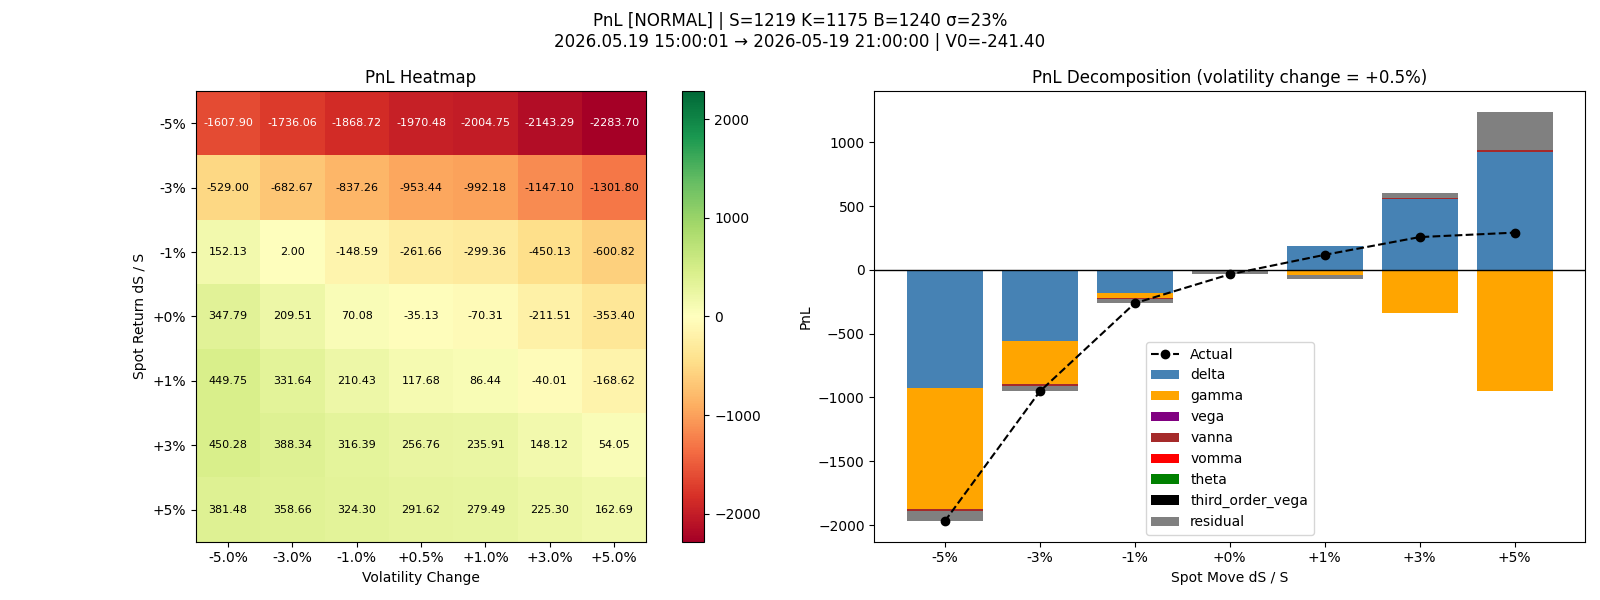
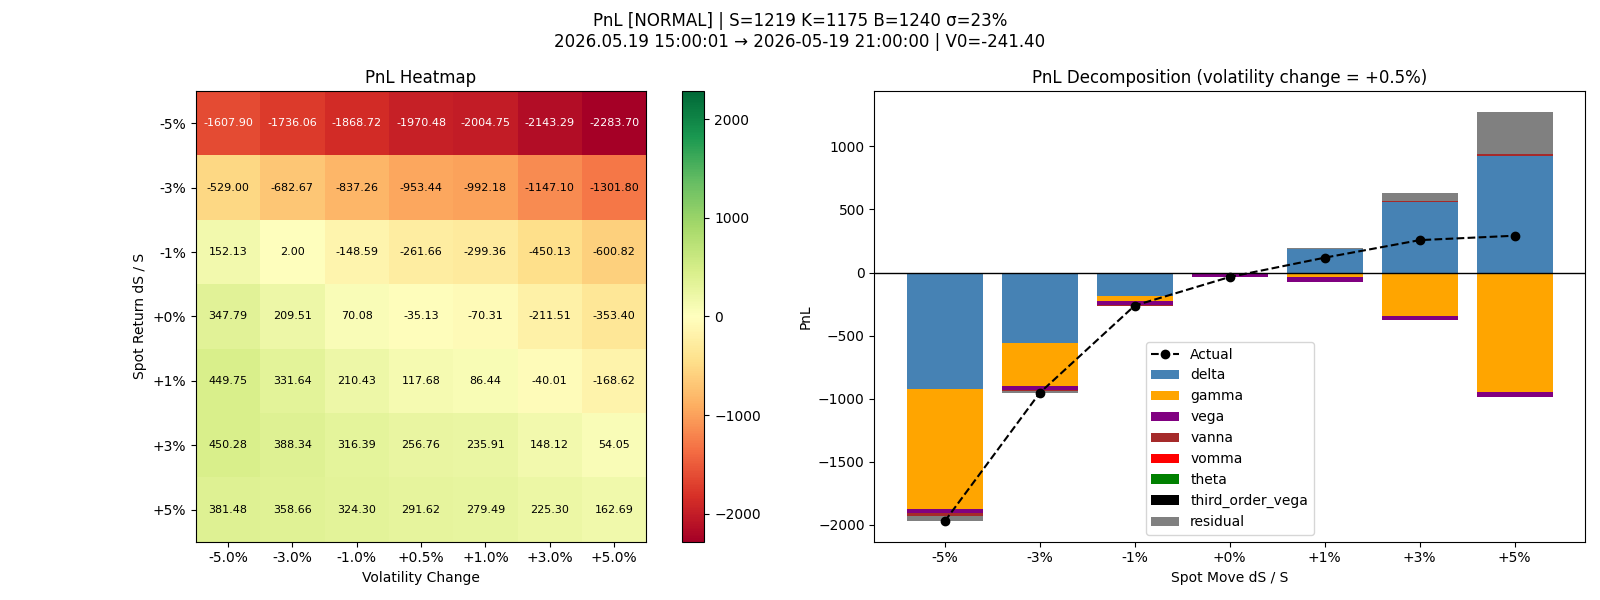
PnL attribution doc added, and bug repaired
Vega unit mismatch repaired and add doc of PnL analysis.

diff --git a/analysis/PnL_Attribution.py b/analysis/PnL_Attribution.py
@@ -143,7 +143,7 @@ def compute_pnl(option_type, base_params:dict, next_pnl_dt:str, dS_fracs:tuple=(
         actual = V1(S0 + dS, sigma0 + sigma_change) - V0
         delta_pnl = greeks0['delta'] * dS
         gamma_pnl = 0.5 * greeks0['gamma'] * dS**2
-        vega_pnl = greeks0['vega'] * sigma_change
+        vega_pnl = greeks0['vega'] * sigma_change * 100
         vanna_pnl = vanna0 * dS * sigma_change
         vomma_pnl = 0.5 * vomma0 * sigma_change**2
         theta_pnl = theta0 * trade_sec
@@ -293,10 +293,10 @@ if __name__ == '__main__':
         seed=42,
     )
 
-    res = compute_pnl(option_type= "knockout",
+    res = compute_pnl(option_type= "normal",
         base_params=params, next_pnl_dt="2026.05.19 21:00:00",
         dS_fracs=(-0.05, -0.03, -0.01, 0.0, 0.01, 0.03, 0.05),
         dsigma=(-0.05, -0.03, -0.01, 0.005, 0.01, 0.03, 0.05),
      )
 
-    plot_pnl(res, params, "knockout")
+    plot_pnl(res, params, "normal")

diff --git a/docs/PnL_Attribution_analysis.md b/docs/PnL_Attribution_analysis.md
@@ -1,0 +1,309 @@
+# PnL Attribution
+
+Decomposing the realized PnL of an accumulator position (from the client's
+long perspective) into Greek contributions, and interpreting the residual —
+especially how the knock-out barrier reshapes both the PnL profile and the
+residual.
+
+---
+
+## Purpose
+
+When moving from the close of one trading day to the next trading day, spot and volatility move, 
+and the mark-to-market PnL of accumulator shifts. A trading desk needs to answer two questions:
+
+
+1. **How well** does a first-/second-order Greek model explain the realized PnL?
+2. **What is left** in the residual, and what does it reveal about the
+   position's hidden risks?
+
+All analysis is from the **client's (long) perspective**: the client
+buys and holds the accumulator.
+
+---
+
+## Methodology
+
+For a move (dS, dSigma) over a short horizon dt, realized PnL is approximated by
+a multivariate Taylor expansion of the value function:
+
+$
+\text{PnL} \approx \underbrace{\Delta \, dS + \tfrac12 \Gamma \, dS^2}_{\text{spot, 1st + 2nd order}}$
+$+ \underbrace{V \, d\sigma + \tfrac12 \text{Vomma} \, d\sigma^2}_{\text{vol, 1st + 2nd order}}$
+$+ \underbrace{\text{Vanna} \, dS \, d\sigma}_{\text{cross spot-vol}}$
+$+ \underbrace{\Theta \, dt}_{\text{time decay}}$
+$+ \underbrace{\tfrac16 \tfrac{\partial^3 V}{\partial\sigma^3} d\sigma^3}_{\text{3rd-order vol}}$
+$+ \text{residual}$
+
+
+The residual is defined as actual PnL minus all explained terms. First-order
+Greeks come from the pricer (analytic for the normal accumulator,
+finite-difference for the knock-out). Vanna, Vomma and third-order Vega are
+computed here by finite difference on the repriced value.
+
+The decomposition slice in the bar chart is taken at a +0.5% vol shift.
+Third-order Vega is included for completeness but is negligible in this
+scenario — with a vol shift of only 0.5%, the $\sigma^3$ term is on the order of
+1e-7. It becomes relevant only under large vol shocks (e.g. ±5% stress
+scenarios).
+
+### Test scenario
+
+| Parameter                       | Value                         |
+|---------------------------------|-------------------------------|
+| Spot S                          | 1219                          |
+| Strike K                        | 1175                          |
+| Barrier B                       | 1240 (only ~1.7% above spot)  |
+| Volatility                      | 23%                           |
+| Participation PR                | 1.0                           |
+| Leverage L                      | 3.0                           |
+| Rebate (KO)                     | 10.0                          |
+| Horizon                         | 15:00:01 to 21:00:00 same day |
+| Vol shift (decomposition slice) | +0.5%                         |
+
+Because spot is only 1.7% below the barrier, a +3% spot move already breaches
+B and triggers knock-out — which is what makes this scenario useful for
+studying barrier effects.
+
+---
+
+## A note on Theta ≈ 0 (the dual-time framework at work)
+
+Across all rows, Theta contributes exactly 0. This is not an error — it is a
+direct consequence of the dual-time framework.
+
+The marking window runs 15:00:01 to 21:00:00. The afternoon session closes at
+15:00 and the night session opens at 21:00, so this entire window falls in a
+**non-trading period**. The trading-seconds elapsed is essentially zero, so
+diffusion-driven time decay does not accrue. Calendar time does advance (6
+hours), but with r = 3% over 6 hours the discounting effect is negligible.
+
+Under the dual-time framework, option time value decays only during active
+exchange sessions. Marking a position across a non-trading session gap, 
+therefore shows near-zero theta. This matches desk reality: a position held
+over a closed market does not bleed trading-time theta while no trading can
+occur. It is a feature of the framework, not a modeling gap.
+
+---
+
+## Result 1: Knock-Out Accumulator
+
+![`PnL_Attribution_Knockout`](../images/PnL_Attribution_Knockout.png)
+
+### The PnL heatmap (left panel)
+
+The heatmap shows realized PnL across joint spot (rows) and vol (columns)
+shocks. Two features dominate:
+
+- **Heavy, uncapped downside.** At -5% spot, PnL is around -2000 across all
+  vol shocks. The leveraged loss leg (L = 3) means downside losses pile up
+  fast and are largely insensitive to vol.
+
+- **Upside capped by knock-out.** The +3% and +5% rows read **395.72 in every
+  cell, identical across all vol shocks**. Once spot rises ~3% it breaches the
+  barrier, the contract knocks out, and PnL locks at the rebate value. Vol no
+  longer matters because the position is dead.
+
+This plateau is the defining signature of the knock-out accumulator: **unbounded
+downside, capped upside**.
+
+### The Greek decomposition (right panel) and the residual
+
+A crucial point about the decomposition: the Greeks are measured **at the
+initial spot S0 = 1219, while the position is still alive**. The Taylor
+expansion uses these live Greeks to extrapolate PnL to each spot shock — but it
+has no knowledge that the barrier exists.
+
+This produces a subtle and important pattern in the residual:
+
+| ΔS/S |    Actual |     Delta |    Gamma |    Vega |   Vanna | Residual |
+|------|----------:|----------:|---------:|--------:|--------:|---------:|
+| -5%  | -2046.912 | -1101.952 | -817.844 | -23.821 | -30.588 |  -72.828 |
+| -3%  | -1013.164 |  -661.171 | -294.424 | -23.821 | -18.353 |  -15.516 |
+| -1%  |  -282.926 |  -220.390 |  -32.714 | -23.821 |  -6.118 |   -0.004 |
+| +0%  |   -23.707 |     0.000 |   -0.000 | -23.821 |   0.000 |   -0.006 |
+| +1%  |   172.496 |   220.390 |  -32.714 | -23.821 |   6.118 |    2.402 |
+| +3%  |   395.724 |   661.171 | -294.424 | -23.821 |  18.353 |   34.324 |
+| +5%  |   395.724 |  1101.952 | -817.844 | -23.821 |  30.588 |  104.728 |
+
+(Vomma ≈ +0.12, Theta = 0, third-order Vega ≈ 0 across all rows
+— omitted from the table for clarity.)
+
+Within ±1% spot, (Delta + Gamma + Vega + Vanna) explain the PnL almost completely (the
+residual is essentially zero at -1% and only +2.4 at +1%). The residual grows
+as spot moves further, reaching +104.7 at +5% and -72.8 at -5%. This is the
+expected O(dS³) truncation error of a second-order expansion — and its
+structure carries information about the barrier, discussed below.
+
+### What happens to the Greeks once knocked out?
+
+The decomposition uses **t0 Greeks (position alive)**. If spot actually breaches
+the barrier at t1, the contract is dead and one will get the corresponding rebate:
+delta, gamma and vega all collapse to ~zero (only rate sensitivity on the
+rebate discounting remains). The Taylor expansion, anchored on the live t0
+Greeks, cannot represent this collapse.
+
+So the residual near the barrier is not noise — it is the quantitative measure
+of the knock-out effect that local Greeks structurally cannot capture. This is
+precisely why barrier products require either very frequent re-hedging. (See
+[`analysis/bump_size.py`](../analysis/bump_size.py) for how the Greeks
+themselves become numerically unstable as spot approaches B.)
+
+---
+
+## Result 2: Normal Accumulator (no barrier)
+
+![`PnL_Attribution_Normal.png`](../images/PnL_Attribution_Normal.png)
+
+The normal accumulator shares the same daily payoff away from the barrier, so
+its downside behavior is similar. The crucial difference is the upside.
+
+| ΔS/S |    Actual |    Delta |    Gamma |    Vega |   Vanna | Residual |
+|------|----------:|---------:|---------:|--------:|--------:|---------:|
+| -5%  | -1970.482 | -925.640 | -948.121 | -35.098 | -16.675 |  -44.921 |
+| -3%  |  -953.440 | -555.384 | -341.324 | -35.098 | -10.005 |  -11.602 |
+| -1%  |  -261.659 | -185.128 |  -37.925 | -35.098 |  -3.335 |   -0.147 |
+| +0%  |   -35.130 |    0.000 |   -0.000 | -35.098 |   0.000 |   -0.006 |
+| +1%  |   117.685 |  185.128 |  -37.925 | -35.098 |   3.335 |    2.271 |
+| +3%  |   256.762 |  555.384 | -341.324 | -35.098 |  10.005 |   67.821 |
+| +5%  |   291.617 |  925.640 | -948.121 | -35.098 |  16.675 |  332.547 |
+
+Without a barrier, the upside is uncapped. At +5%, Delta (+925.64) and Gamma
+(-948.12) net to -22.48, so the quadratic Taylor extrapolation predicts a small
+negative PnL. But actual PnL is +291.62 — far above the extrapolation. The gap
+produces a large residual of +332.55.
+
+This residual reflects the higher-order curvature of the accumulator
+payoff under a large spot move, not a barrier truncation. The normal
+accumulator's payoff keeps gaining as spot rises (until the soft cap at B),
+and a second-order Taylor expansion anchored at S0 cannot keep up.
+
+---
+
+## Normal vs Knock-Out: side-by-side
+
+|                 | Normal  | Knock-Out |
+|-----------------|---------|-----------|
+| Residual at -5% | -44.92  | - 72.83   |
+| Residual at -3% | -11.60  | -15.52    |
+| Residual at -1% | -0.15   | -0.00     |
+| Residual at +1% | +2.27   | +2.40     |
+| Residual at +3% | +67.82  | +34.32    |
+| Residual at +5% | +332.55 | +104.73   |
+
+### The key difference: reversible soft cap vs permanent knockout
+
+Both products cap the daily upside — for the call accumulator, the daily
+payoff is zero once spot is at or above B. The difference is **what kind of
+cap**:
+
+- **Normal accumulator: a reversible daily soft cap.** On a day when spot is
+  above B, that day's payoff is zero. But if spot falls back below B the next
+  day, the payoff resumes. The contract never dies, so its total value still
+  responds to spot — which is why the +5% PnL (+292) differs from the +3% PnL
+  (+257); the remaining observation days continue to carry spot exposure.
+
+- **Knock-out accumulator: a one-touch permanent cap.** The first time spot
+  touches B, the entire contract terminates and pays only the rebate for all
+  remaining days. This is why the +3% and +5% rows are identical (395.72): once
+  knocked out, additional spot moves change nothing.
+
+So the +3%/+5% plateau is unique to the KO not because the normal has no cap,
+but because the normal's cap is reversible and per-day, while the KO's is
+permanent and path-dependent.
+
+### How well do the First and second order explain the PnL
+**First-/second-order Greeks explain small moves well but degrade for large
+ones.** Within ±1% spot, Delta + Gamma + Vega + Vanna capture nearly all the PnL; beyond
+±3%, the residual grows as the quadratic Taylor expansion breaks down.
+
+### Residual analysis
+
+The residual measures the risk that local Greeks cannot see, and the two
+products' residuals have **different origins**.
+
+**The residual is asymmetric — upside larger than downside.** 
+
+For the normal
+accumulator, the +5% residual (+332.55) dwarfs the -5% residual (-44.92). This
+maps directly onto the payoff structure:
+
+- **Upside**: as spot rises toward B, the payoff transitions from linear
+  participation (PR) into the soft cap near the boundary. This sharp change in
+  curvature produces large higher-order terms — the quadratic Taylor expansion
+  fails hardest here.
+- **Downside**: the payoff is a smooth linear leverage leg (-L). Curvature
+  changes gently, so higher-order terms stay small.
+
+
+**The knock-out limits the upside residual.** The KO's +5% residual (+104.73) is
+far smaller than the normal's (+332.55). Because the KO knocks out around +3%
+and pins actual PnL at the rebate (395.72), the bounded actual value stays
+relatively close to the Delta+Gamma extrapolation. The normal accumulator, with
+no permanent cap, lets value drift far above the quadratic extrapolation on the
+upside, producing a much larger residual.
+
+
+
+---
+
+
+## Reading the Greek signs
+
+The signs of the Greek contributions encode the entire risk character of the
+accumulator. From the client's long perspective:
+
+### Delta > 0 
+
+`delta_pnl = Delta × dS`. The contribution is negative when spot falls and
+positive when spot rises, so Delta itself is positive 
+(In most cases, when the spot is near the barrier level, the sign of delta
+could change). The call accumulator
+pays the client when spot rises (participation PR) and costs the client when
+spot falls (leverage L) — a fundamentally bullish position, hence positive
+delta.
+
+### Gamma < 0 (the client is short convexity)
+
+`gamma_pnl = ½ × Gamma × dS²`. Since dS² ≥ 0, the contribution's sign equals
+Gamma's sign — and it is negative in **every** row. The client is short
+convexity: the upside participates only linearly (PR = 1), while the downside
+is linearly leveraged (L = 3). This "slow up, fast down" payoff has negative
+second derivative.
+
+Negative gamma means the client loses on the gamma term regardless of
+direction — a large move either way hurts. This is the mathematical root of
+the accumulator's reputation as a "sell convexity" product: the client is
+betting on calm markets and is penalized by volatility.
+
+### Vega < 0 (the client is short volatility)
+
+Vega is negative (about -70 per 1% vol at this point; the table shows the
+contribution at +0.5%, hence ~-35). The payoff is asymmetric: modest linear
+upside (PR = 1, capped at B) versus heavily leveraged downside (L = 3). Higher
+vol raises the probability of spot reaching the extreme regions, and because
+the downside is leveraged while the upside is capped, the unfavorable tail
+grows faster than the favorable one. So higher vol hurts the client. Lower vol
+makes the position more valuable.
+
+
+
+### Putting it together: the asymmetry
+
+The interaction of these signs produces the accumulator's signature
+asymmetry. Compare the -5% and +5% rows:
+
+- **At -5% (spot crashes):** delta_pnl (-925) and gamma_pnl (-948) are both
+  negative and **stack**, producing a catastrophic actual PnL of -1970.
+
+- **At +5% (spot rallies):** delta_pnl (+925) is positive but gamma_pnl (-948)
+  is still negative, so they **offset**. The delta gain is eaten by the gamma
+  loss, leaving only +291.
+
+The client loses heavily on the downside (delta and gamma compound) but gains
+only modestly on the upside (delta gain partly cancelled by gamma loss). This
+"lose more, gain less" profile is the direct consequence of L > PR and only the gain only happens between K and B,
+and it is  why the accumulator can inflict severe losses on a buyer in a sharp sell-off.
+
+
+